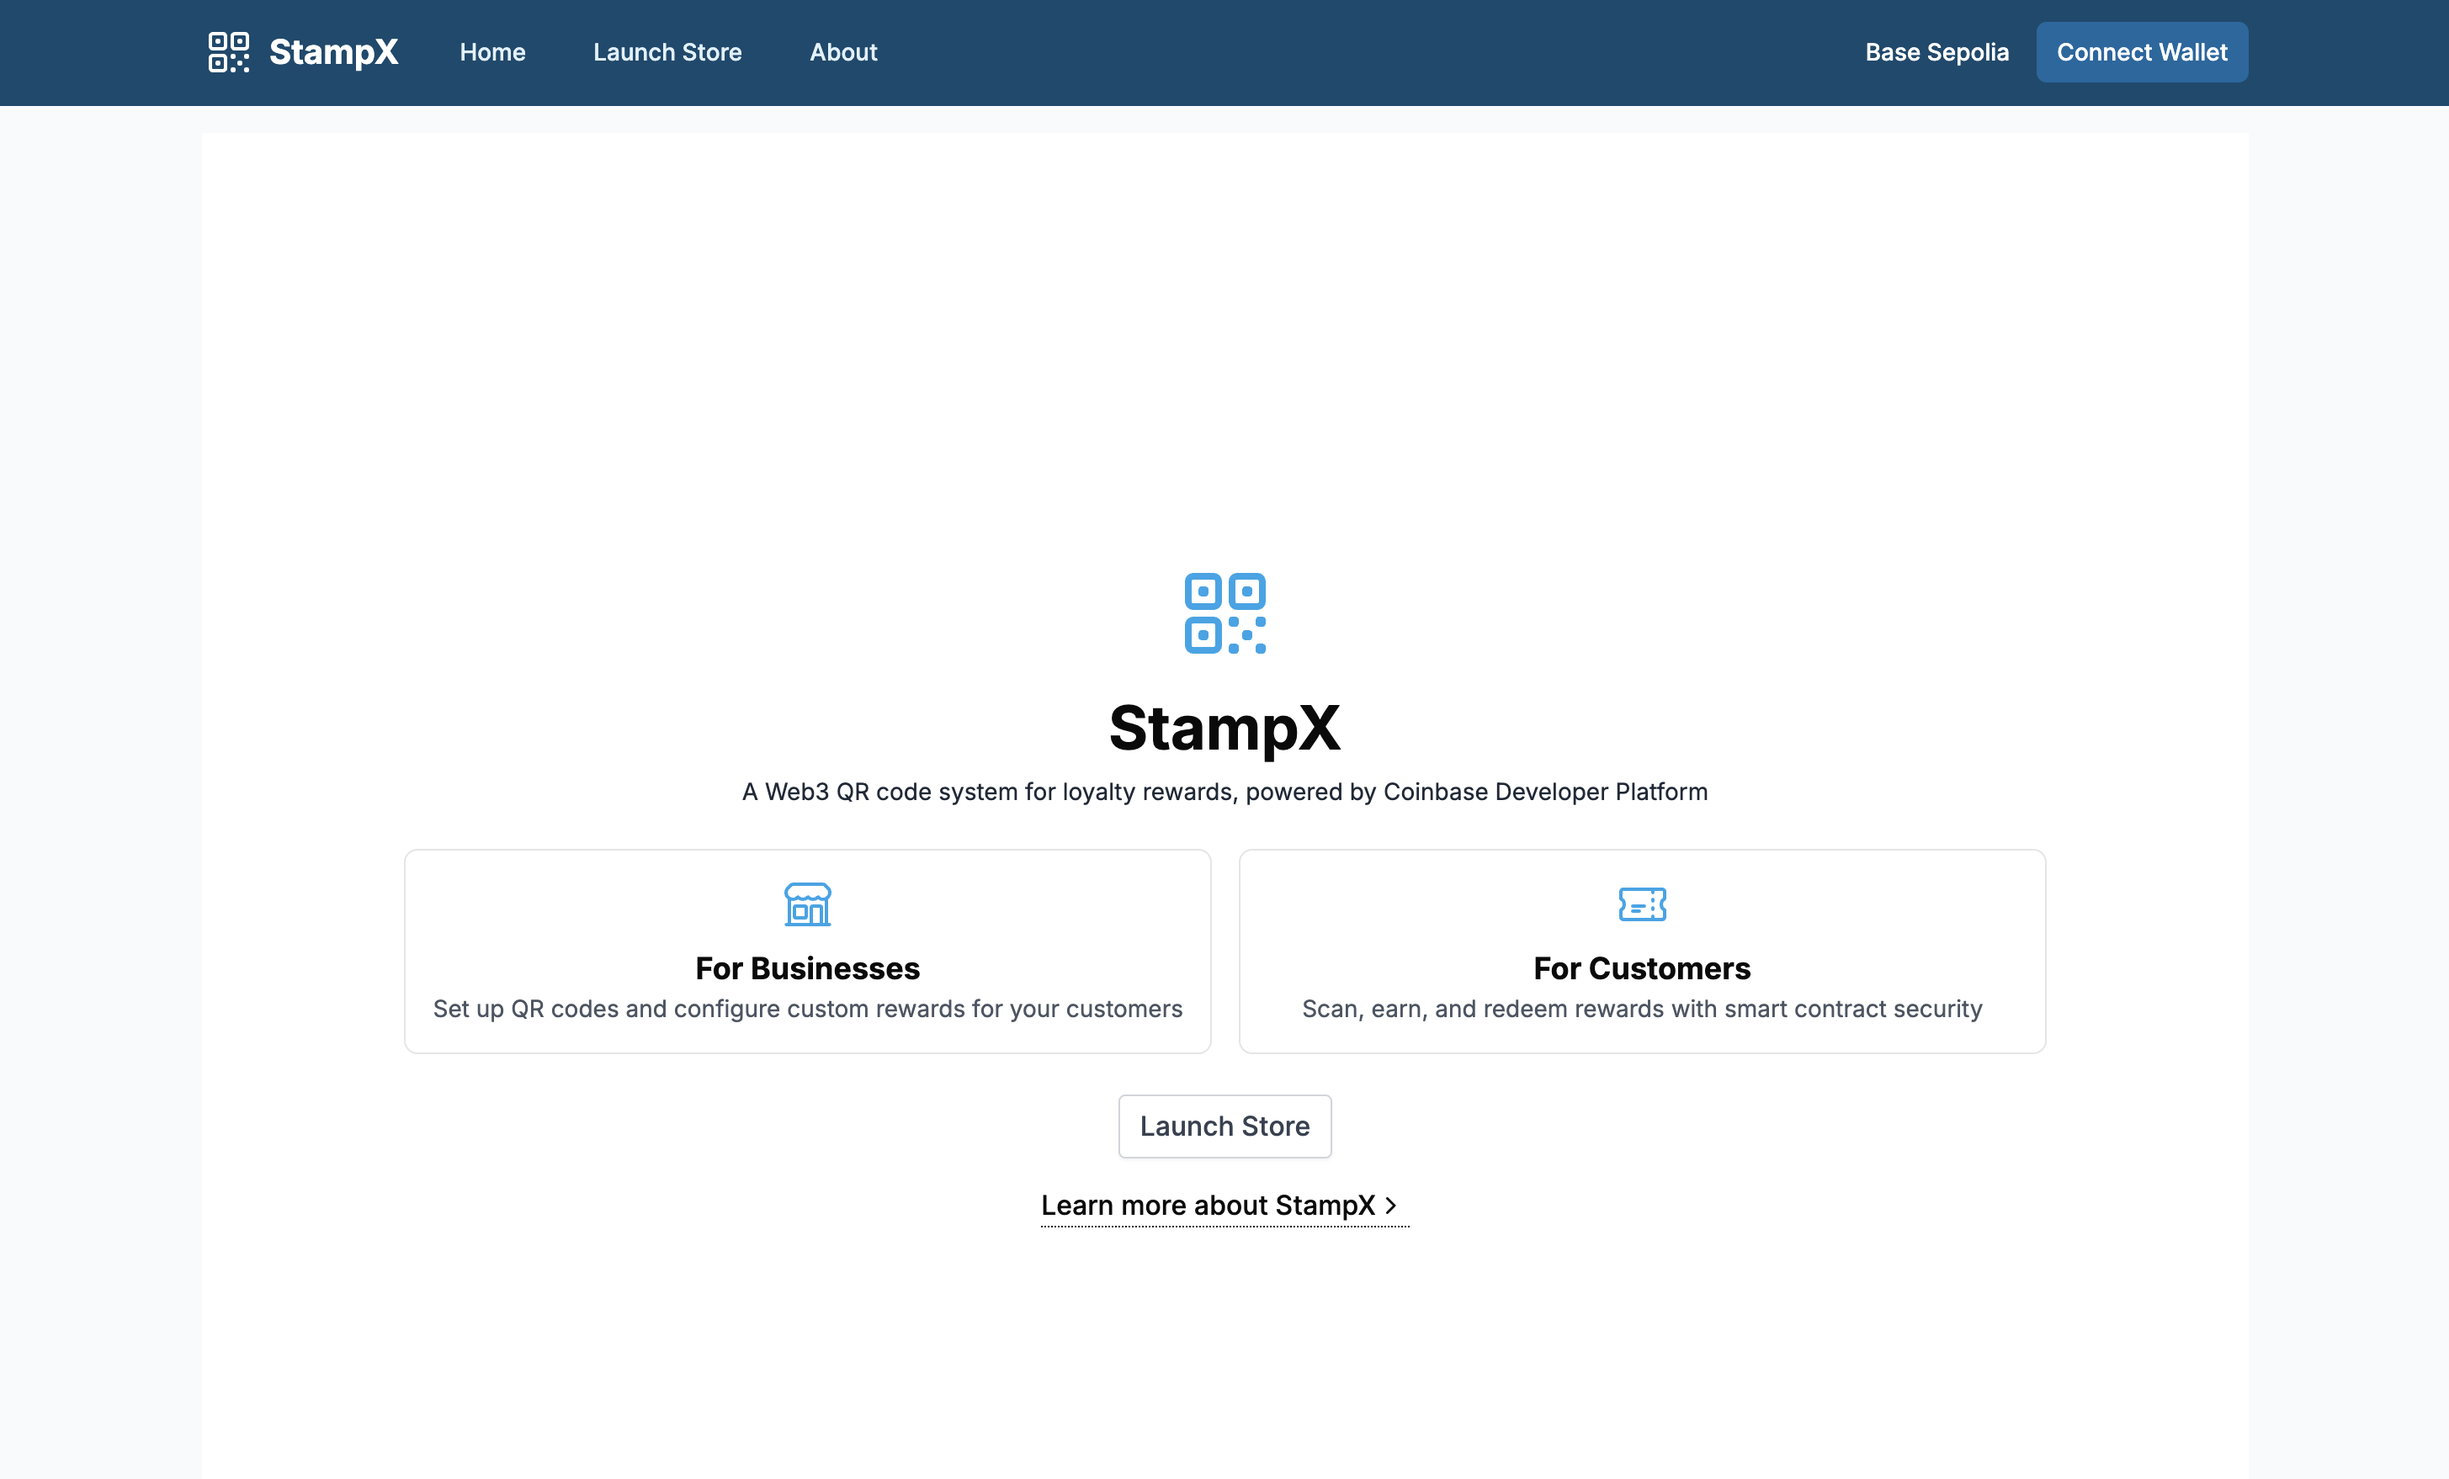
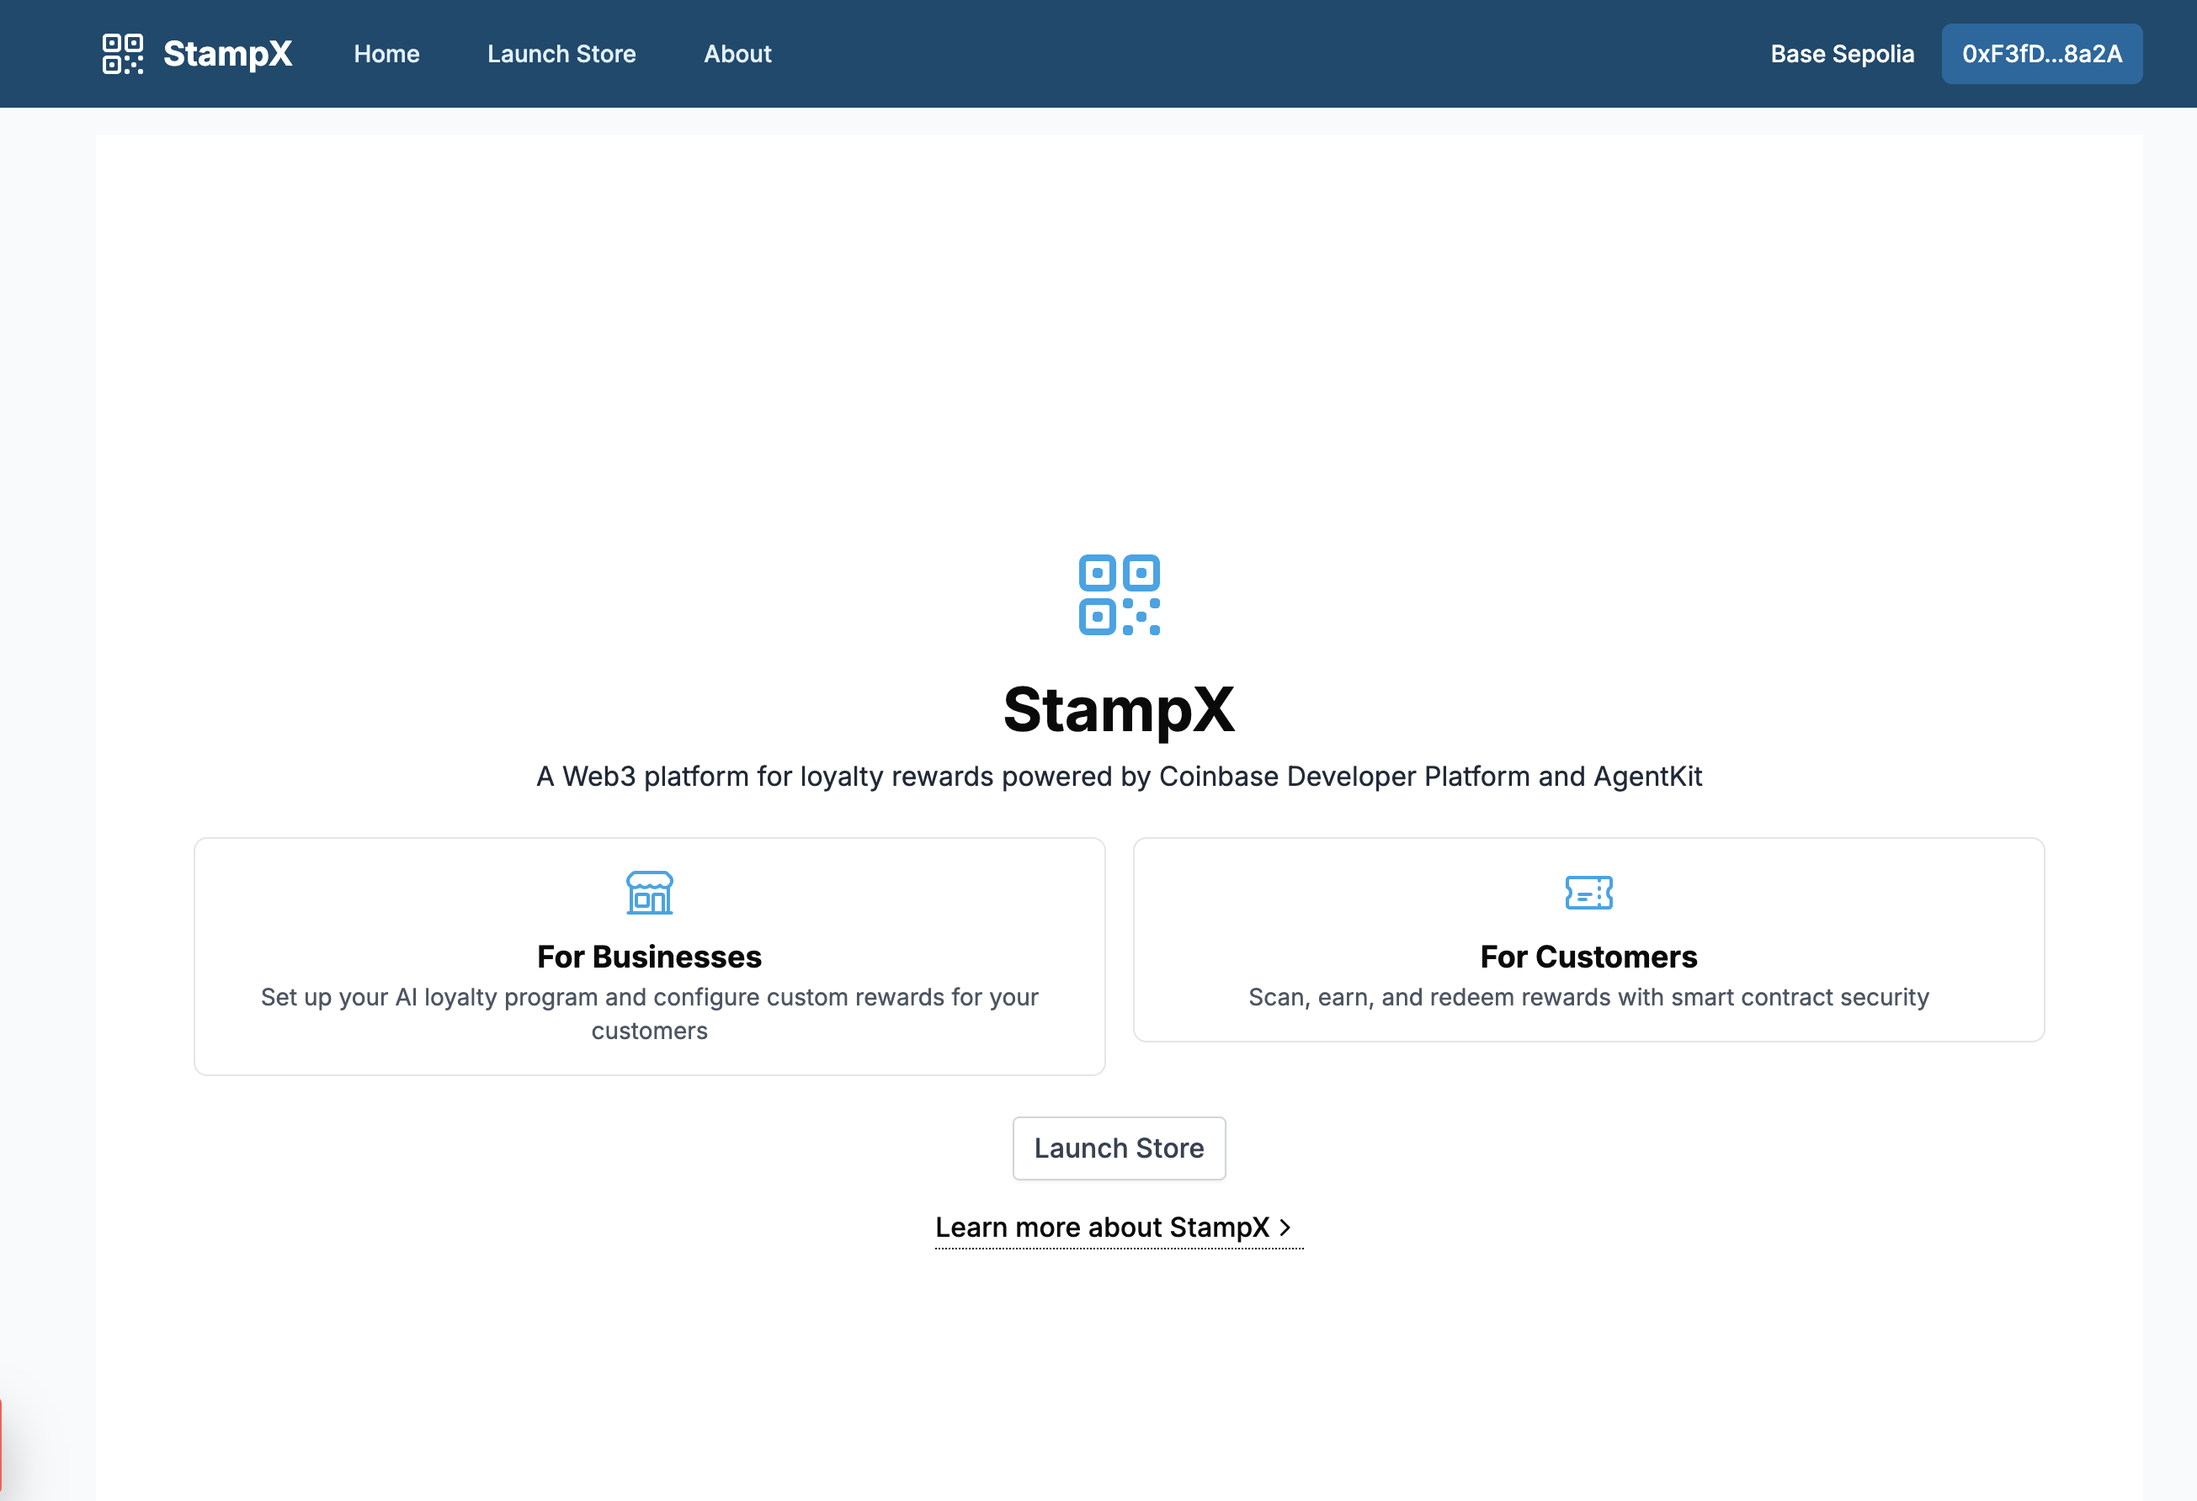
update slogan

diff --git a/src/app/page.tsx b/src/app/page.tsx
@@ -9,6 +9,7 @@ import Link from 'next/link';
 
 import ArrowLink from '@/components/links/ArrowLink';
 import ButtonLink from '@/components/links/ButtonLink';
+import { siteConfig } from '@/constant/config';
 
 export default function HomePage() {
   return (
@@ -19,11 +20,8 @@ export default function HomePage() {
       <section className='bg-white'>
         <div className='layout relative flex min-h-screen flex-col items-center justify-center py-8 text-center'>
           <QrCodeIcon className='h-16 w-16 text-primary-500' />
-          <h1 className='mt-4'>StampX</h1>
-          <p className='mt-2 text-sm text-gray-800'>
-            A Web3 QR code system for loyalty rewards, powered by Coinbase
-            Developer Platform
-          </p>
+          <h1 className='mt-4'>{siteConfig.title}</h1>
+          <p className='mt-2 text-md text-gray-800'>{siteConfig.slogan}</p>
 
           <div className='mt-6 grid grid-cols-1 gap-4 md:grid-cols-2'>
             <Link href='/launch'>
@@ -31,8 +29,8 @@ export default function HomePage() {
                 <BuildingStorefrontIcon className='mx-auto h-8 w-8 text-primary-500' />
                 <h3 className='mt-2 text-lg font-bold'>For Businesses</h3>
                 <p className='text-sm text-gray-600'>
-                  Set up QR codes and configure custom rewards for your
-                  customers
+                  Set up your AI loyalty program and configure custom rewards
+                  for your customers
                 </p>
               </div>
             </Link>

diff --git a/src/constant/config.ts b/src/constant/config.ts
@@ -4,8 +4,10 @@ export const siteConfig = {
   titleTemplate: '%s | StampX',
   defaultTitle: 'StampX - Web3 Loyalty Rewards',
   defaultChain: baseSepolia,
+  slogan:
+    'A Web3 platform for loyalty rewards powered by Coinbase Developer Platform and AgentKit',
   description:
-    'A Web3 QR code system for loyalty rewards, powered by Coinbase Developer Platform',
+    'A Web3 loyalty platform for customer assitance and rewards, powered by AgentKit, Autonome, and Base.',
   url: 'https://www.github.com/cbonoz/agentic25',
   contractAddress: process.env.NEXT_PUBLIC_CONTRACT_ADDRESS ?? '0x0',
   icons: {
@@ -25,7 +27,6 @@ export const siteConfig = {
     locale: 'en_US',
     type: 'website',
   },
-  slogan: 'AI-Powered Loyalty Rewards for Web3 Business',
   businessDescription:
     'Launch an instant AI checkout assistant that can accept digital payments and track your customer loyalty right at point of sale.',
   createBusinessHeading: 'Your AI Loyalty Assistant',

diff --git a/README.md b/README.md
@@ -1,5 +1,5 @@
 <p align='center'>
-  <img src="./img/stamp_x.png"/>
+  <img src="https://i.ibb.co/SXpVzYXJ/stamp-x.png"/>
 </p>
 
 # StampX
@@ -7,6 +7,10 @@
 A Web3 Loyalty Program Platform with agent-driven contract interactions.
 
 Built for Agentic Ethereum 2025.
+
+Video demo:
+
+Live Demo Url: 
 
 ## Inspiration
 
@@ -36,15 +40,50 @@ Customers can:
 
 ## Technologies used
 
-1. <b>Coinbase Developer Platform</b>: SmartWallets, Agentkit, OnchainKit, Coinbase SDK, Coinbase extension and browser provider. Custom prompt fed into deployment on Autonome
+1. <b>Coinbase Developer Platform</b>
 
-2. <b>Autonome</b>: AgentKit deployment and hosting. Used to deploy the AgentKit model with storefront context and serve all chat requests. Deployed here: https://autonome.alt.technology/stampx-ighkdb
+   - AgentKit: Core of the checkout/loyalty experience. Used to build and deploy AI agents that can:
+     - Process natural language store queries
+     - Execute on-chain transactions
+     - Check loyalty point balances
+     - Verify reward eligibility
+   - OnchainKit: Manages real-time blockchain data and UI components.
+   - Coinbase SDK & Chrome Extension: Handles wallet connections with wagmi integration and coinbase connector from the sdk. AgentKit is used to trigger wallet workflows.
 
-3. <b>Base</b>: Entire project centers around the base blockchain and payments ecosystem. Integrated links to deployed solidity smart contracts
+2. <b>Autonome</b>
 
-4. <b>Nethermind</b>: StampX is a commerce AI agent use case on Web3 each customer's assistant with smart contract actions. THe AI agent is connected to the primary contract deployment and can perform an initial set of actions like checking rewards balance, redemptions, and asking questions about the store based on input provided by the owner.
+   - Hosts our custom AgentKit deployment with:
+     - Store-specific training data and context
+     - Transaction capabilities
+     - Points calculation logic
+     - Reward validation rules
+   - Endpoint: `https://autonome.alt.technology/stampx-ighkdb`
+   - Manages real-time chat state and context persistence
+   - Handles concurrent user sessions and load balancing for separate customer interactions.
+
+3. <b>Base</b>
+
+   - Primary chain for smart contract deployment and loyalty tracking
+   - Benefits:
+     - Low transaction costs for payment sends accrual
+     - Fast finality for instant rewards
+     - EVM compatibility for tooling support
+   - Contract Address: `0x27A6E1ED6e0dd33265C7b7466e65a4aeFbCD3F2e`
+   - Uses Base Sepolia testnet for development and testing
+   - CDP connected with onchainkit in the UI
+
+4. <b>Nethermind</b>
+   - Main AI agent functionality for the commerce use case is powered by solidity contracts and is open source.
+     - Smart contract event emission
+     - Automated reward distribution and validation
+     - Natural language processing for user queries
+     - Transaction intent detection
+   - Integrates with store-specific business logic
+   - Handles multi-step transactions and account state
 
 Base Sepolia smart contract for StampX: https://sepolia.basescan.org/address/0x27A6E1ED6e0dd33265C7b7466e65a4aeFbCD3F2e
+
+Project is open source, available here: https://github.com/cbonoz/agentic25
 
 Core:
 
@@ -70,20 +109,6 @@ The StampX project is currently deployed on the Base Sepolia testnet. For produc
 3. Redeploy smart contract on Base
 4. Redeploy agentkit with Base mainnet
 5. Make new website deployment (using nextj)
-
-<!-- ## Accomplishments that we're proud of
-
-- Built a fully functional Web3 loyalty platform
-- Created an intuitive UI that hides blockchain complexity
-- Developed flexible smart contracts for business customization
-- Integrated AI for natural customer interactions
-
-## What we learned
-
-- Smart contract development and testing
-- Web3 frontend integration
-- AI API implementation -->
-<!-- - Blockchain transaction management -->
 
 ## What's next for StampX
 
